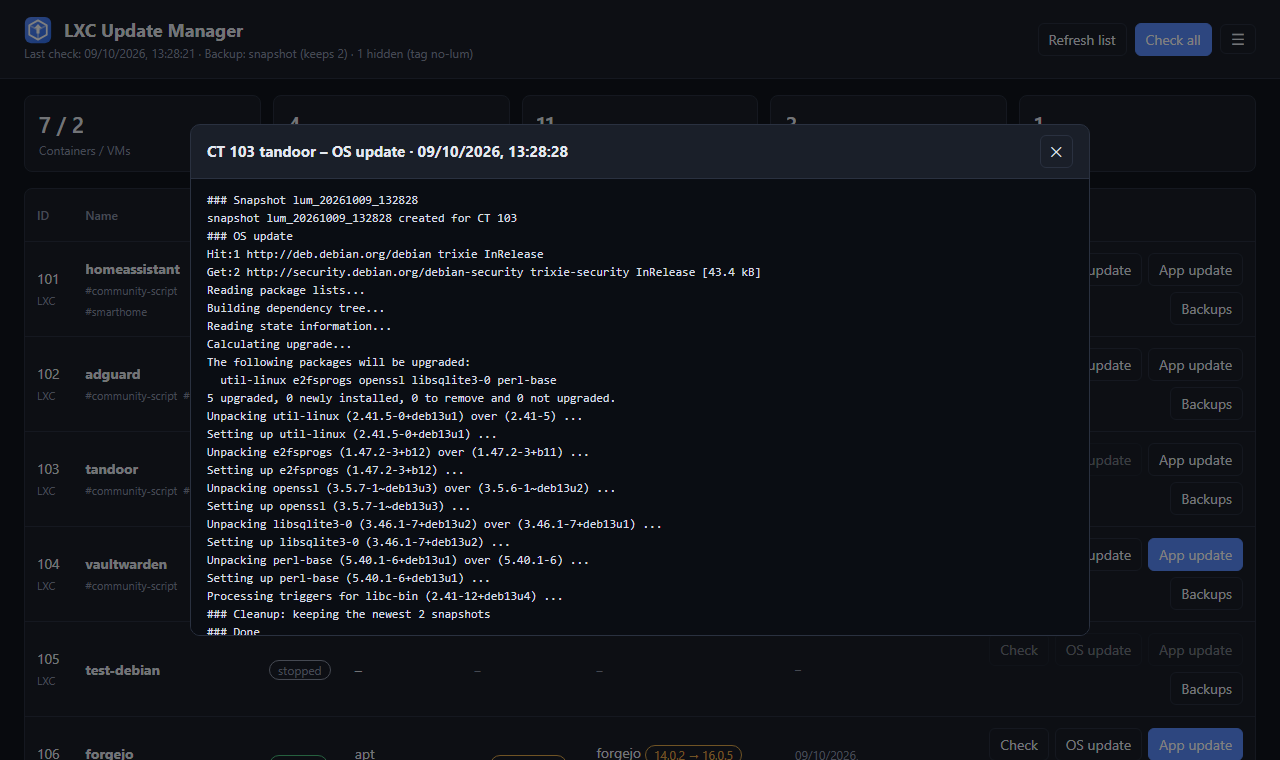
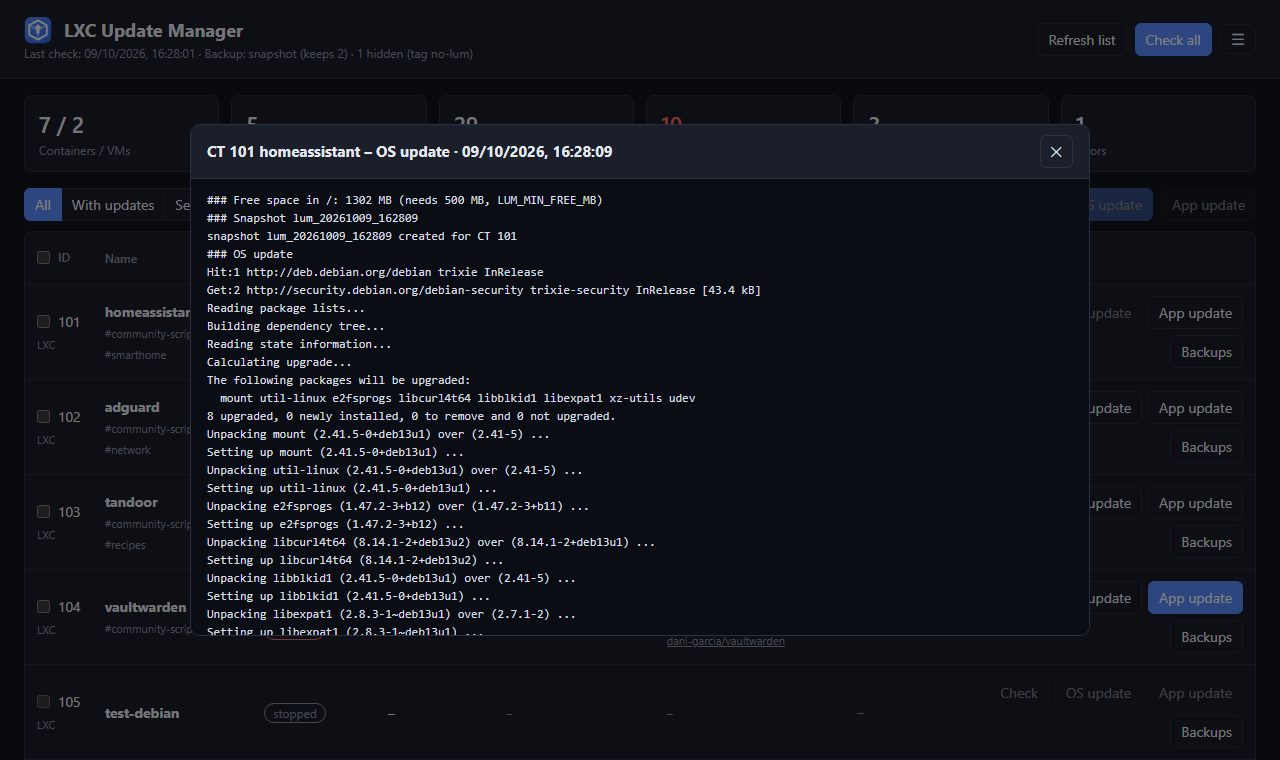
UI: compact badges, new screenshots for 0.11-0.15
- "low disk" badge without the size (it's in the tooltip), package and
  security badges may wrap: the guest list keeps its buttons on one line
- Screenshots show the filter, bulk bar, security tile and the new badges

diff --git a/app/static/style.css b/app/static/style.css
@@ -81,7 +81,7 @@ button.placeholder { visibility: hidden; }
 .tag { display: inline-block; font-size: 11px; color: var(--muted); margin-right: 6px; white-space: nowrap; }
 /* long owner/repo names must not widen the table; full name in the tooltip */
 .tag.repo { margin-right: 0; max-width: min(240px, 100%); overflow: hidden; text-overflow: ellipsis; vertical-align: bottom; }
-details summary { cursor: pointer; list-style: none; display: inline-flex; align-items: center; gap: 6px; white-space: nowrap; }
+details summary { cursor: pointer; list-style: none; display: inline-flex; flex-wrap: wrap; align-items: center; gap: 4px 6px; white-space: nowrap; }
 details summary::-webkit-details-marker { display: none; }
 details summary::before { content: "▸"; font-size: 12px; color: var(--muted); transition: transform .15s; }
 details[open] summary::before { transform: rotate(90deg); }

diff --git a/app/static/app.js b/app/static/app.js
@@ -120,7 +120,7 @@ const fmtKb = (kb) => (kb >= 1048576 ? `${(kb / 1048576).toFixed(1)} GB` : `${Ma
 function diskBadge(c) {
   if (c.status !== "running" || !c.low_disk) return "";
   return `<br><span class="badge err" title="${esc(`Only ${fmtKb(c.disk_free_kb)} of ${fmtKb(c.disk_size_kb)} free in / – `
-    + "an update needs more (LUM_MIN_FREE_MB). Free up space or enlarge the disk.")}">low disk: ${fmtKb(c.disk_free_kb)} free</span>`;
+    + "an update needs more (LUM_MIN_FREE_MB). Free up space or enlarge the disk.")}">low disk</span>`;
 }
 
 function renderContainers(all) {
